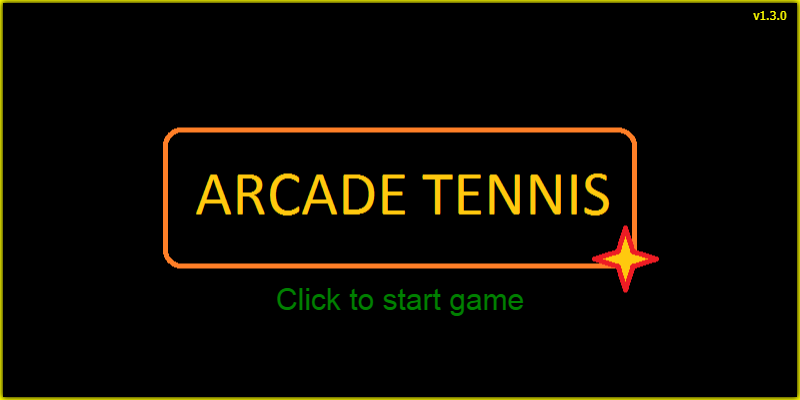
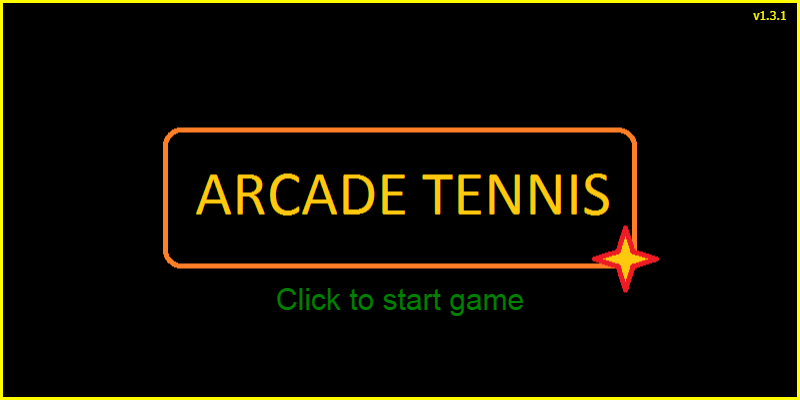
1.3.1 released

Changed region(s): [[0.0, 0.0, 1.0, 1.0]]

diff --git a/index.html b/index.html
@@ -14,6 +14,9 @@ TODOS:
     - allow two player game   
     - add screenshot feature (save canvas to image)
     - find/create better texture for playground (more detailed)
+    - settings menu for sfx & graphic options (performance scaling)
+    - about menu shows game info
+    - bad mug logo
 
 KNOWN BUGS:
     - occasionaly ball is stucked at the top or bottom edge of canvas
@@ -36,10 +39,7 @@ varsion 1.3.0
     - pressing Q will quit to menu
     - pressing P will pause the game
     - receive both uppercase and lowercase keypress is now working
-version 1.3.1 - CURRENT
-    - settings menu for sfx & graphic options (performance scaling)
-    - about menu shows game info
-    - bad mug logo
+version 1.3.1
     - applause sfx on win screen
     - custom in-games settings:
         R enable/disable retro mode
@@ -197,14 +197,14 @@ version 1.3.1 - CURRENT
                 sfxEnabled = sfxEnabled ? false : true;
                 debugLog('sfxEnabled is ' + (sfxEnabled ? 'enabled' : 'disabled'));
                 if (introMusicPlaying && !sfxEnabled) {
-                    sfxIntroMusic.pause();   
+                    sfxIntroMusic.pause();
                     introMusicPlaying = false;
                 }
                 if (!gameStarted && sfxEnabled) {
                     playSfx(sfxIntroMusic);
                     introMusicPlaying = true;
                 }
-                break;                
+                break;
             case KEY_DYNAMIC_SIZE:
             case KEY_DYNAMIC_SIZE - 32:
                 gfxDynamicBallSize = gfxDynamicBallSize ? false : true;
@@ -300,7 +300,7 @@ version 1.3.1 - CURRENT
                     ctx.shadowColor = 'black';
                     ctx.shadowOffsetX = 3;
                     ctx.shadowOffsetY = 2;
-                    //                    ctx.fillText('GAME PAUSED', CX, CY);
+                    ctx.fillText('GAME PAUSED', CX, CY);
                     ctx.shadowOffsetX = 0;
                     ctx.shadowOffsetY = 0;
                 }
@@ -391,7 +391,7 @@ version 1.3.1 - CURRENT
         }
 
     } // moveEverything()
-    
+
     function playSfx(sfx) {
         if (sfxEnabled) {
             sfx.play();
